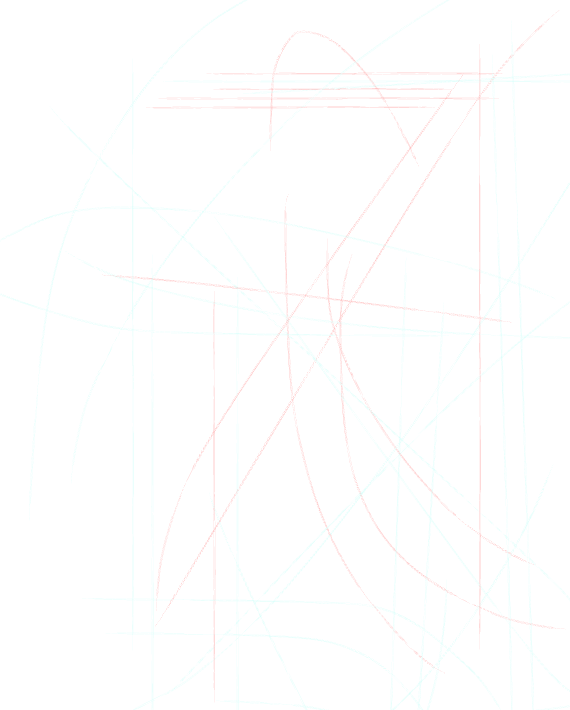
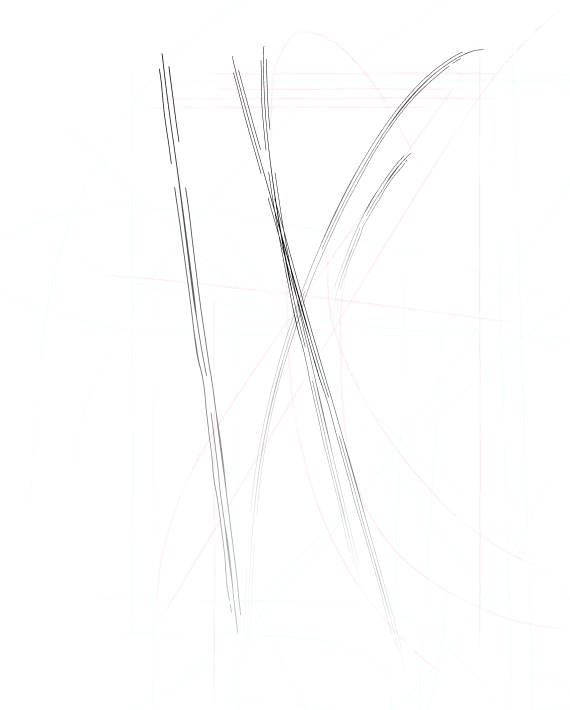
style:refine ground texture

diff --git a/src/components/features/games/tahterevallis/index.tsx b/src/components/features/games/tahterevallis/index.tsx
@@ -165,11 +165,11 @@ export default function GameTahterevallis({
             "--y2": "calc(100% - var(--y1))",
           } as React.CSSProperties
         }
-        className="opacity-25
+        className="opacity-90
     fixed w-dvw h-dvh touch-none pointer-events-none
    landscape:bg-[url(/assets/tahterevallis/images/bg-board-texture.png),url(/assets/tahterevallis/images/bg-board-colored-stencils.png),url(/assets/tahterevallis/images/bg-board-colored-stencils-2.png)]
     
-    bg-position-[center,center_left,bottom_right] bg-size-[cover,auto,auto] bg-no-repeat
+    bg-position-[center,center_left,center_right] bg-size-[cover,auto,auto] bg-no-repeat
     
     [clip-path:polygon(0%_0%,100%_0%,100%_100%,0%_100%,0%_0%,var(--x1)_var(--y1),var(--x1)_var(--y2),var(--x2)_var(--y2),var(--x2)_var(--y1),var(--x1)_var(--y1))]
   "

diff --git a/src/app/globals.css b/src/app/globals.css
@@ -143,7 +143,7 @@
     background: #0d2619;
     background: radial-gradient(
       circle,
-      rgba(13, 38, 25, 1) 0%,
+      rgb(32, 25, 31) 0%,
       rgba(23, 23, 20, 1) 58%
     );
   }
